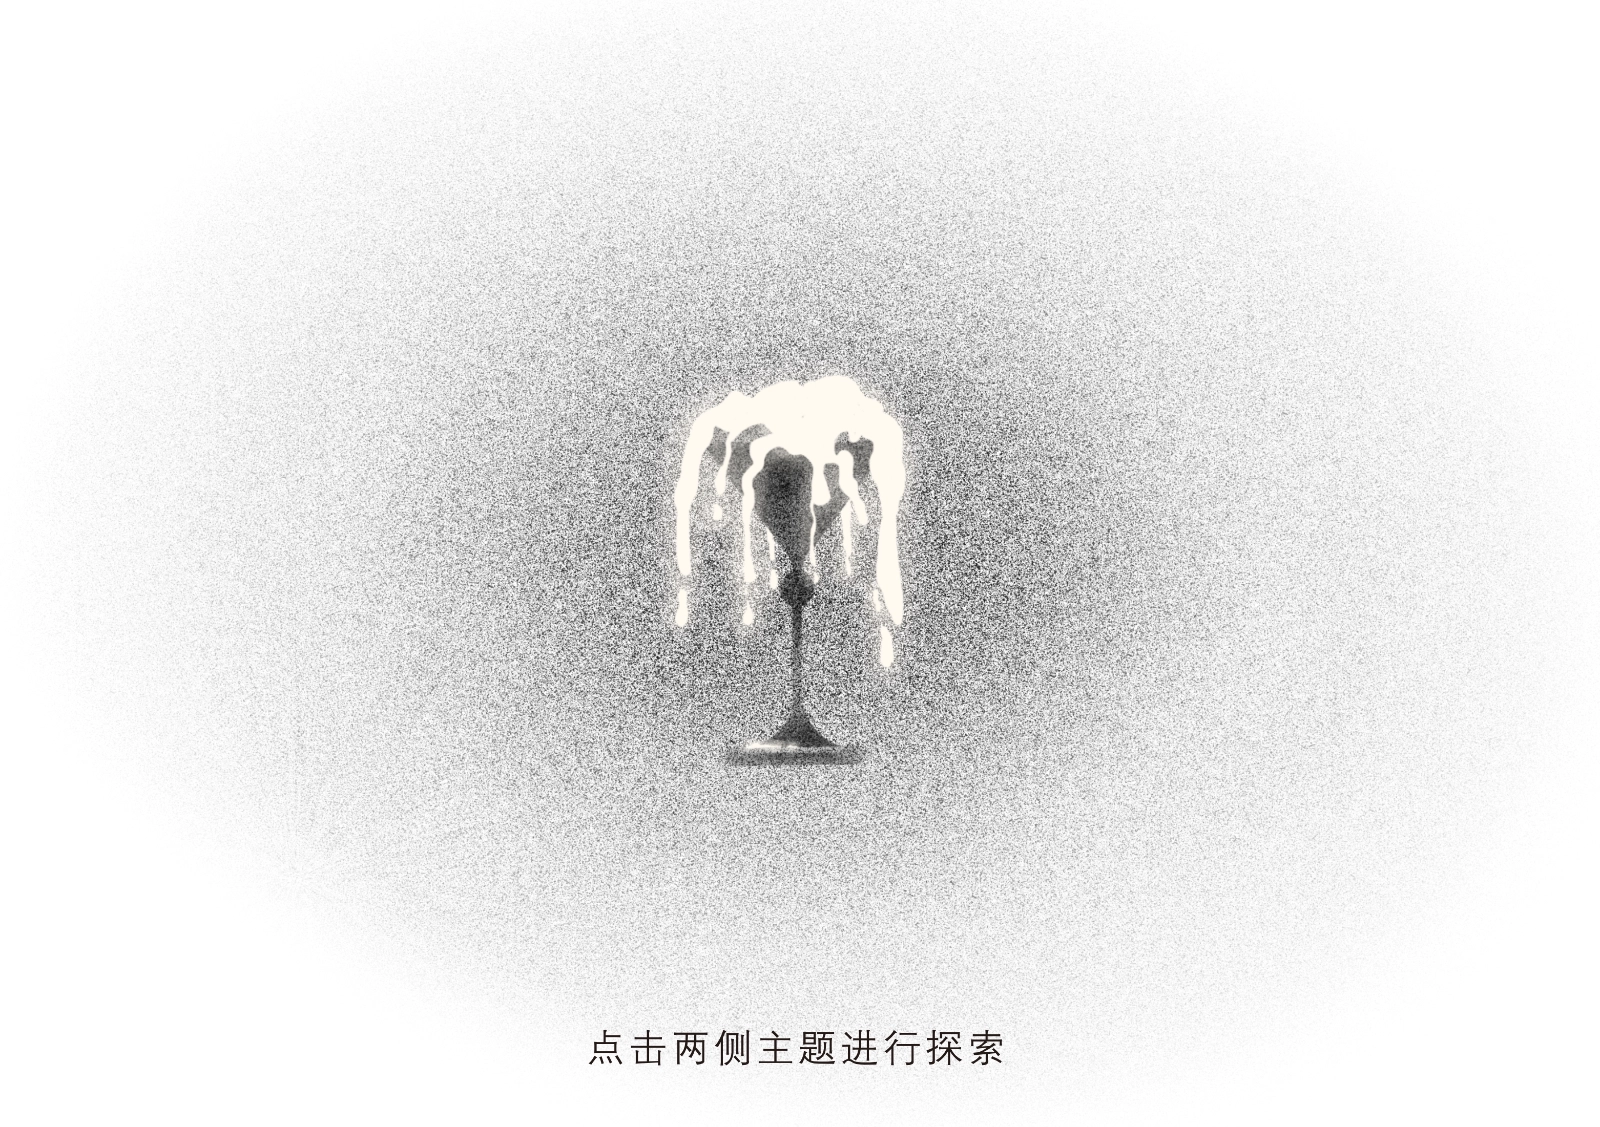
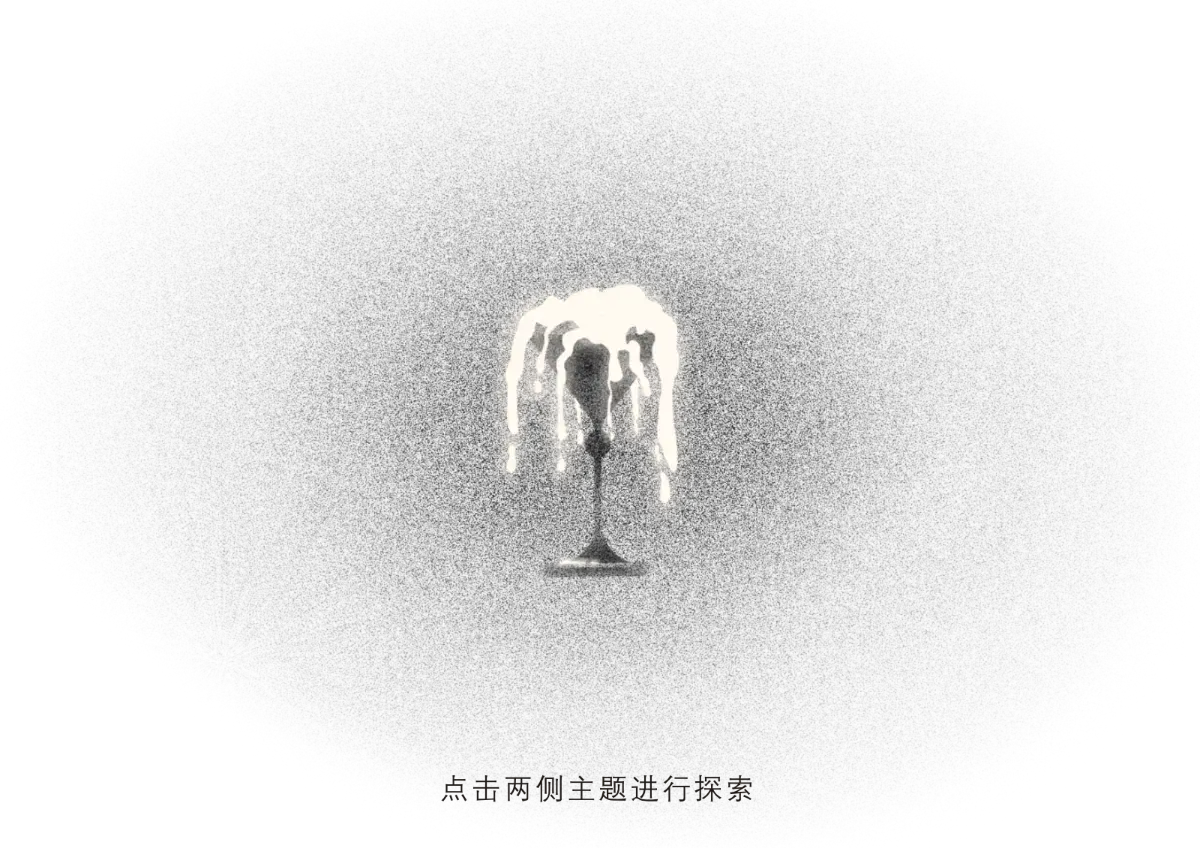
Fixed some layout problems

diff --git a/app/about/page.tsx b/app/about/page.tsx
@@ -136,7 +136,7 @@ const About = () => {
               <Image
                 className={`mx-auto ${
                   currentImage === 1 ? 'flex' : 'hidden'
-                } h-full w-auto`}
+                } h-full w-auto object-contain`}
                 src="/about/click-1.webp"
                 alt=""
                 width={1600}
@@ -148,7 +148,7 @@ const About = () => {
                 } h-full w-full bg-[#231916]/70`}
               >
                 <Image
-                  className="mx-auto h-[80%] w-auto"
+                  className="mx-auto h-auto w-[90%] object-contain"
                   src="/about/click-2.webp"
                   alt=""
                   width={1600}
@@ -161,7 +161,7 @@ const About = () => {
                 } h-full w-full bg-[#231916]/70`}
               >
                 <Image
-                  className="mx-auto h-[80%] w-auto"
+                  className="mx-auto h-auto w-[90%] object-contain"
                   src="/about/click-3.webp"
                   alt=""
                   width={1600}
@@ -174,7 +174,7 @@ const About = () => {
                 } h-full w-full items-start justify-center overflow-auto py-12`}
               >
                 <Image
-                  className="h-auto w-[90%]"
+                  className="h-auto w-[90%] object-contain"
                   src="/about/click-4.webp"
                   alt=""
                   width={1600}
@@ -187,7 +187,7 @@ const About = () => {
                 } h-full w-full`}
               >
                 <Image
-                  className="mx-auto h-[80%] w-auto"
+                  className="mx-auto h-auto w-[90%] object-contain"
                   src="/about/click-5.webp"
                   alt=""
                   width={1600}
@@ -200,7 +200,7 @@ const About = () => {
                 } flex h-full w-full`}
               >
                 <Image
-                  className="mx-auto h-[80%] w-auto"
+                  className="mx-auto h-[80%] w-auto object-contain"
                   src="/about/click-6.webp"
                   alt=""
                   width={1600}
@@ -213,7 +213,7 @@ const About = () => {
                 } flex h-full w-full`}
               >
                 <Image
-                  className="mx-auto h-auto w-[95%]"
+                  className="mx-auto h-auto w-[95%] object-contain"
                   src="/about/click-7.webp"
                   alt=""
                   width={1600}
@@ -228,7 +228,7 @@ const About = () => {
         <div className="container">
           <Image
             className="h-auto w-full"
-            src="/about/xiangmuqiyuan.webp"
+            src="/about/xiangmuqiyuan.png"
             alt=""
             width={2000}
             height={1200}
@@ -239,9 +239,9 @@ const About = () => {
         <div className="container">
           <Image
             className="h-auto w-full"
-            src="/about/ganxing.webp"
+            src="/about/ganxing.png"
             alt=""
-            width={2000}
+            width={2400}
             height={1200}
           />
         </div>

diff --git a/components/GameCard.tsx b/components/GameCard.tsx
@@ -14,7 +14,7 @@ const GameCard = ({ number, toggleVisibility }: Props) => {
       ? '/ending/2'
       : number >= 5 && number <= 8
       ? '/ending/3'
-      : number === 9 && number <= 12
+      : number >= 9 && number <= 12
       ? '/ending/4'
       : number >= 13 && number <= 15
       ? '/ending/1'

diff --git a/styles/globals.css b/styles/globals.css
@@ -8,7 +8,7 @@
   }
 
   .container {
-    @apply max-w-7xl mx-auto px-24;
+    @apply xl:max-w-6xl lg:max-w-5xl md:max-w-4xl mx-auto px-24;
   }
 
   .rotate-container {
